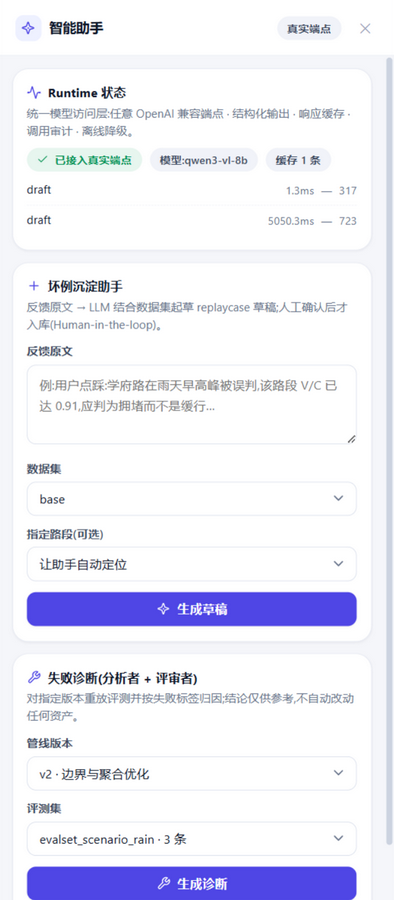
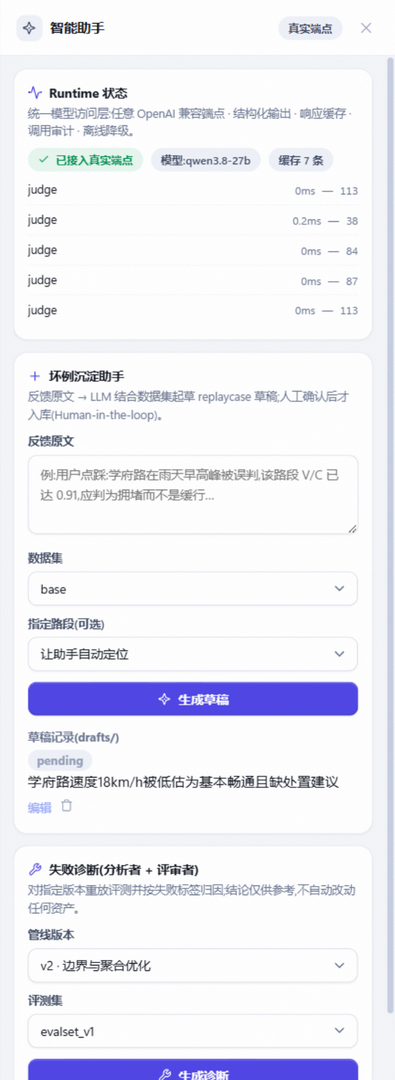
docs: 刷新 README 界面截图至 v2.2.0 新质感(亮色看板:任务区搜索/轨迹芯片/sparkline/新按钮;助手面板整页截图+PIL裁剪,规避IAB拼接伪影);TODO完成记录补全本轮全部改动

diff --git a/TODO.md b/TODO.md
@@ -22,7 +22,7 @@
 
 ## 完成记录
 
-- [x] 看板质感/动效/流程收口：按钮内高光与按压反馈、样式化确认弹窗、任务区文本搜索、报告/case 导出、趋势图描线动画、自进化→回放衔接、健康心跳、流程竞态修复、v2.2.0 四处同步 —— 2026-10-31（见 HISTORY.md v2.2.0）
+- [x] 看板质感/动效/流程收口:按钮内高光与按压反馈、样式化确认弹窗、任务区文本搜索、报告/case 导出、趋势图描线动画、自进化→回放衔接(回放可暂停)、版本卡 sparkline、分析页饱和度微条、对比页 A/B 得分条与差分一键展开、沉淀表单沿用参考判定、健康心跳、流程竞态修复、文档中心质感对齐、后台渲染加固、README 界面截图刷新、v2.2.0 四处同步 —— 2026-10-31(见 HISTORY.md v2.2.0 及当日补充条目)
 - [x] 双轨交付：桌面 exe GUI 收口（单实例竞态修复/信息图标）+ 私有化部署交付包（build_deploy.py + 部署说明，该文件后更名 `deploy-guide.md`）+ .dockerignore 修复 + v2.1.0 四处同步/tag/wheel —— 2026-10-07（见 HISTORY.md v2.1.0）
 - [x] 遗留清理（batch_demo_ids/空目录/dist 残留）、v2/v3 合并 `_analyze`、文档数字对齐 2.0.0 —— 2026-10-05（核查报告整理轮）
 - [x] 文档九件体系迁移 + egg-info 清理 —— 2026-10-05（见 HISTORY.md 对应条目）
